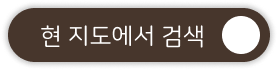
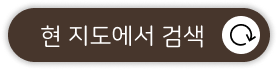
Feat: 내 위치로 돌아가는 버튼 기능 구현

Changed region(s): [[0.8058, 0.3429, 0.9209, 0.6571]]

diff --git a/src/pages/Home/index.tsx b/src/pages/Home/index.tsx
@@ -1,17 +1,27 @@
-import React from 'react'
-import { NaverMap } from '@/components/NaverMap'
-import PageLayout from '@/components/PageLayout/PageLayout'
-import SearchBar from '@/components/SearchBar'
-import GoToMyLocationButton from '@/components/Button/GoToMyLocationButton/GoToMyLocationButton'
-import GetCafeLocationButton from '@/components/Button/GetCafeLocationButton/GetCafeLocationButton'
-import * as Styled from './style'
+import { NaverMap } from '@/components/NaverMap';
+import PageLayout from '@/components/PageLayout/PageLayout';
+import SearchBar from '@/components/SearchBar';
+import GoToMyLocationButton from '@/components/Button/GoToMyLocationButton/GoToMyLocationButton';
+import GetCafeLocationButton from '@/components/Button/GetCafeLocationButton/GetCafeLocationButton';
+import * as Styled from './style';
+import { useRecoilState } from 'recoil';
+import { myLocationState } from '@/atoms/location';
+import useGeolocation from '@/hooks/useGeolocation';
 
 export default function Home() {
+  const [, setMyLocation] = useRecoilState(myLocationState);
+
+  const { coordinates } = useGeolocation();
+
+
+  const handleMyLocationButtonClicked = () => {
+    setMyLocation({ latitude: coordinates.lat, longitude: coordinates.lng });
+  };
   return (
     <PageLayout>
       <SearchBar />
       <Styled.ButtonContainer>
-        <GoToMyLocationButton />
+        <GoToMyLocationButton onClick={() => handleMyLocationButtonClicked()} />
         <Styled.CenteredButton>
           <GetCafeLocationButton />
         </Styled.CenteredButton>
